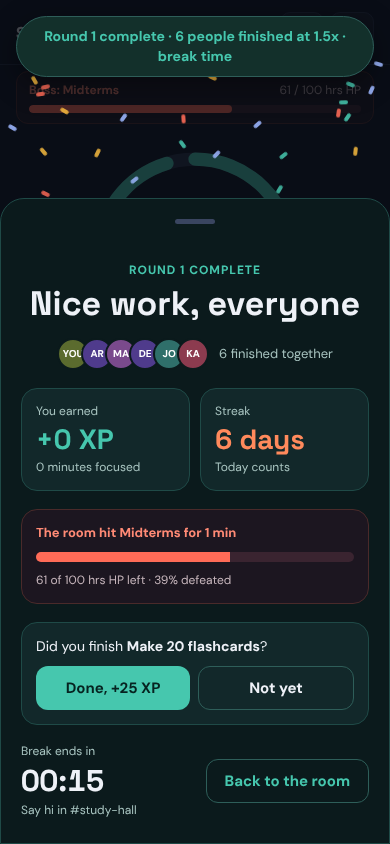
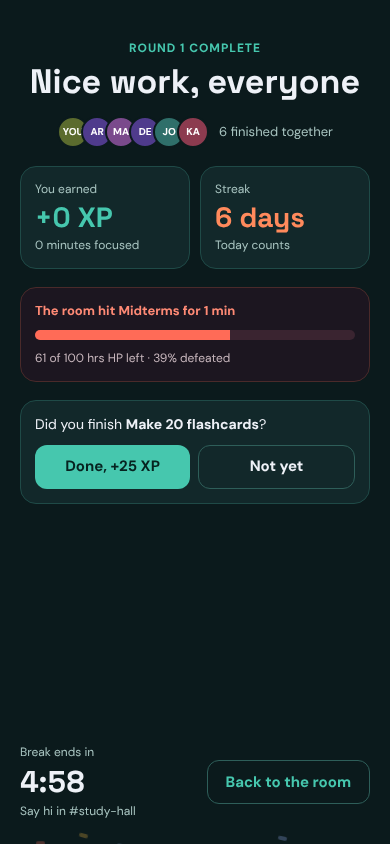
fix(client): match the mockups for round dots and the break moment
A side-by-side comparison against the design canvas found four gaps:

- Round dots now fill the round in progress (round 2 shows two filled)
- On phones the break moment takes over the full screen, as designed,
  and the room-wide banner no longer covers it (it stays as a
  screen-reader status)
- Break countdown reads 4:41, not 04:41
- No divider under the mobile header

Adds a regression test for the round dots and refreshes screenshots.

Claude-Session: https://claude.ai/code/session_017BA9j8mgUBoJVvaVhN3scG

diff --git a/client/src/components/Celebration.tsx b/client/src/components/Celebration.tsx
@@ -23,7 +23,13 @@ export function confettiPieces(seed: number, count = 36) {
  * The same small burst on every screen when a round ends. Positions come
  * from the round number, so every client renders identical confetti.
  */
-export function Celebration({ celebration }: { celebration: CelebrationState }) {
+export function Celebration({
+  celebration,
+  quiet = false,
+}: {
+  celebration: CelebrationState;
+  quiet?: boolean;
+}) {
   const pieces = useMemo(
     () => confettiPieces(celebration.round * 9973 + celebration.finisherIds.length),
     [celebration.round, celebration.finisherIds.length],
@@ -45,7 +51,7 @@ export function Celebration({ celebration }: { celebration: CelebrationState }) 
           />
         ))}
       </div>
-      <div className="celebration" role="status">
+      <div className={quiet ? "visually-hidden" : "celebration"} role="status">
         Round {celebration.round} complete · {people === 1 ? "1 person" : `${people} people`}{" "}
         finished
         {celebration.combo > 1 ? ` at ${formatCombo(celebration.combo)}` : ""} · break time

diff --git a/client/test/App.test.tsx b/client/test/App.test.tsx
@@ -50,6 +50,14 @@ describe("Study Room app", () => {
     const card = within(board).getByRole("listitem", { name: /You, Room timer/ });
     expect(card).toHaveTextContent("Make 20 flashcards");
     expect(screen.getByText("Focus · round 1 of 4")).toBeInTheDocument();
+    // Like the mockup, the dot for the round in progress is filled.
+    const dots = document.querySelectorAll(".round-dot");
+    expect([...dots].map((d) => d.getAttribute("data-done"))).toEqual([
+      "true",
+      "false",
+      "false",
+      "false",
+    ]);
     expect(screen.getByRole("button", { name: "Leave room timer" })).toBeInTheDocument();
   });
 

diff --git a/client/src/styles.css b/client/src/styles.css
@@ -1380,6 +1380,31 @@ h3 {
   .sheet-handle {
     display: block;
   }
+
+  .app-header {
+    border-bottom: none;
+  }
+
+  /* The break moment takes over the whole screen on phones, like the mockup. */
+  .backdrop:has(.break-sheet) {
+    background: var(--break-bg);
+  }
+
+  .sheet.break-sheet {
+    min-height: 100vh;
+    max-height: 100vh;
+    border: none;
+    border-radius: 0;
+    animation: fade-in 0.2s ease;
+  }
+
+  .break-sheet .sheet-handle {
+    display: none;
+  }
+
+  .break-sheet .break-footer {
+    margin-top: auto;
+  }
 }
 
 /* ---------------------------------------------------------------- motion */

diff --git a/client/src/components/BreakMoment.tsx b/client/src/components/BreakMoment.tsx
@@ -147,7 +147,9 @@ export function BreakMoment({
           <div className="tiny" style={{ color: "var(--break-muted)" }}>
             {breakLeft > 0 ? "Break ends in" : "Break's over"}
           </div>
-          <div className="break-countdown">{formatCountdown(breakLeft)}</div>
+          <div className="break-countdown">
+            {formatCountdown(breakLeft).replace(/^0(\d)/, "$1")}
+          </div>
           {chatChannel && (
             <div className="tiny" style={{ color: "var(--break-muted)" }}>
               Say hi in #{chatChannel}

diff --git a/client/src/components/TimerCard.tsx b/client/src/components/TimerCard.tsx
@@ -68,10 +68,7 @@ export function TimerCard({
             <span
               key={i}
               className="round-dot"
-              data-done={
-                timer.phase !== "idle" &&
-                (i < timer.round - 1 || (i === timer.round - 1 && timer.phase !== "focus"))
-              }
+              data-done={timer.phase !== "idle" && i < timer.round}
             />
           ))}
           <span style={{ marginLeft: 6 }}>{nextLabel(timer)}</span>

diff --git a/client/src/App.tsx b/client/src/App.tsx
@@ -123,7 +123,9 @@ export function App({ gateway }: { gateway: StudyRoomGateway }) {
         <SettingsSheet room={room} onClose={() => setOverlay(null)} />
       )}
 
-      {state.celebration && <Celebration celebration={state.celebration} />}
+      {state.celebration && (
+        <Celebration celebration={state.celebration} quiet={state.breakMoment !== null} />
+      )}
       {state.breakMoment && (
         <BreakMoment
           result={state.breakMoment}
